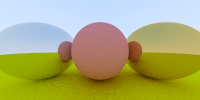
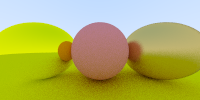
started to add multithreading

diff --git a/src/main.rs b/src/main.rs
@@ -1,10 +1,15 @@
+extern crate crossbeam;
 extern crate image;
-extern crate indicatif;
+// extern crate indicatif;
+extern crate num_cpus;
 extern crate rand;
 
-use indicatif::{ProgressBar, ProgressStyle};
+use image::png::PNGEncoder;
+use image::ColorType;
+// use indicatif::{ProgressBar, ProgressStyle};
 use rand::Rng;
 use std::cmp;
+use std::fs::File;
 use std::time::Instant;
 
 mod camera;
@@ -22,6 +27,10 @@ use object_list::ObjectList;
 use ray::Ray;
 use sphere::Sphere;
 use vector3::{unit_vector, Vector3};
+
+fn save_image(buffer: &[u8], width: u32, height: u32) -> Result<(), std::io::Error> {
+    image::save_buffer("1.png", buffer, width, height, image::RGB(8))
+}
 
 fn random_in_unit_sphere() -> Vector3 {
     let mut p: Vector3;
@@ -61,11 +70,12 @@ fn color(r: &Ray, world: &ObjectList, depth: usize) -> Vector3 {
 }
 
 fn main() {
+    let cpu_num = num_cpus::get();
     let now = Instant::now();
     let width: u32 = 200;
     let height: u32 = 100;
     let antialiasing_sensitivity: u32 = 100;
-    let camera: Camera = Camera::new(
+    let camera: &Camera = &Camera::new(
         Vector3::new(0.0, 0.0, 0.0),
         Vector3::new(-2.0, -1.0, -1.0),
         Vector3::new(4.0, 0.0, 0.0),
@@ -73,70 +83,109 @@ fn main() {
     );
 
     // TODO: check implementation performance (Box)
-    let world = ObjectList::new(vec![
+    let world = &ObjectList::new(vec![
         Box::new(Sphere::new(
             Vector3::new(0.0, 0.0, -1.0),
             0.5,
-            Material::new(MaterialType::Lambertian, Vector3::new(0.8, 0.3, 0.3)),
+            Material::new(
+                MaterialType::Lambertian,
+                Vector3::new(0.8, 0.3, 0.3),
+                0.0,
+                0.0,
+            ),
         )),
         Box::new(Sphere::new(
             Vector3::new(0.0, -100.5, -1.0),
             100.0,
-            Material::new(MaterialType::Lambertian, Vector3::new(0.8, 0.8, 0.0)),
+            Material::new(
+                MaterialType::Lambertian,
+                Vector3::new(0.8, 0.8, 0.0),
+                0.0,
+                0.0,
+            ),
         )),
         Box::new(Sphere::new(
             Vector3::new(1.0, 0.0, -1.0),
             0.5,
-            Material::new(MaterialType::Metal, Vector3::new(0.8, 0.6, 0.2)),
+            Material::new(MaterialType::Metal, Vector3::new(0.8, 0.6, 0.2), 0.3, 0.0),
         )),
         Box::new(Sphere::new(
             Vector3::new(-1.0, 0.0, -1.0),
             0.5,
-            Material::new(MaterialType::Metal, Vector3::new(0.8, 0.8, 0.8)),
+            Material::new(
+                MaterialType::Dielectric,
+                Vector3::new(1.0, 1.0, 1.0),
+                0.0,
+                1.5,
+            ),
         )),
     ]);
 
-    let mut imgbuf = image::ImageBuffer::new(width, height);
-    let progress_bar = ProgressBar::new((width * height) as u64);
-    progress_bar.set_style(
-        ProgressStyle::default_bar()
-            .template("[{elapsed_precise}] {bar:40.cyan/blue} {percent:>7}% {msg}")
-            .progress_chars("##-"),
-    );
+    // let mut imgbuf = image::ImageBuffer::new(width, height);
+    // let progress_bar = ProgressBar::new((width * height) as u64);
+    // progress_bar.set_style(
+    //     ProgressStyle::default_bar()
+    //         .template("[{elapsed_precise}] {bar:40.cyan/blue} {percent:>7}% {msg}")
+    //         .progress_chars("##-"),
+    // );
 
-    for (x, y, pixel) in imgbuf.enumerate_pixels_mut() {
-        // x is [0..width]
-        // y is [0..height]
-        // red goes from left to right
-        // green goes from bottom to top
-        let mut col: Vector3 = Vector3::new(0.0, 0.0, 0.0);
-        let inverted_y = height - y;
-        let mut rng = rand::thread_rng();
+    let thread_rows: u32 = height / cpu_num as u32 + 1;
+    let mut buffer = vec![0; (width * height * 3) as usize];
+    let rows: Vec<&mut [u8]> = buffer
+        .chunks_mut((thread_rows * width * 3) as usize)
+        .collect();
+    //TODO: correct division between rows of pixels
+    crossbeam::scope(|spawner| {
+        for (i, row) in rows.into_iter().enumerate() {
+            spawner.spawn(move |_| {
+                for y in 0..height {
+                    for x in 0..width {
+                        // x is [0..width]
+                        // y is [0..height]
+                        // red goes from left to right
+                        // green goes from bottom to top
+                        let mut col: Vector3 = Vector3::new(0.0, 0.0, 0.0);
+                        let inverted_y = height - y;
+                        let mut rng = rand::thread_rng();
 
-        // this shoots rays around the object
-        // edge using a random offset
-        // and computes a color average
-        for _ in 0..antialiasing_sensitivity {
-            let u = (x as f32 + rng.gen::<f32>()) / width as f32;
-            let v = (inverted_y as f32 + rng.gen::<f32>()) / height as f32;
-            let r = camera.get_ray(u, v);
-            col += color(&r, &world, 0);
+                        // this shoots rays around the object
+                        // edge using a random offset
+                        // and computes a color average
+                        for _ in 0..antialiasing_sensitivity {
+                            let u = (x as f32 + rng.gen::<f32>()) / width as f32;
+                            let v = (inverted_y as f32 + rng.gen::<f32>()) / height as f32;
+                            let r = camera.get_ray(u, v);
+                            col += color(&r, &world, 0);
+                        }
+                        col /= antialiasing_sensitivity as f32;
+                        // remove the gamma of 2 from the color (raise to power of 1/2)
+                        col = Vector3::new(col[0].sqrt(), col[1].sqrt(), col[2].sqrt());
+                        let ir = (255.99 * &col[0]) as u8;
+                        let ig = (255.99 * &col[1]) as u8;
+                        let ib = (255.99 * &col[2]) as u8;
+                        // save buffer values
+                        row[(3 * (y * width + x)) as usize] = ir;
+                        row[(3 * (y * width + x) + 1) as usize] = ig;
+                        row[(3 * (y * width + x) + 2) as usize] = ib;
+                        // progress_bar.inc(1);
+                        print!("\r{}s", now.elapsed().as_secs());
+                    }
+                }
+            });
         }
-        col /= antialiasing_sensitivity as f32;
-        // remove the gamma of 2 from the color (raise to power of 1/2)
-        col = Vector3::new(col[0].sqrt(), col[1].sqrt(), col[2].sqrt());
-        let ir = (255.99 * &col[0]) as u8;
-        let ig = (255.99 * &col[1]) as u8;
-        let ib = (255.99 * &col[2]) as u8;
-        *pixel = image::Rgb([ir, ig, ib]);
-        progress_bar.inc(1);
-    }
+    })
+    .unwrap();
 
-    progress_bar.finish();
+    match save_image(&buffer, width, height) {
+        Ok(()) => println!("OK"),
+        Err(err) => println!("{}", err),
+    };
+
+    // progress_bar.finish();
     println!(
         "Finished in {}s {}ms",
         now.elapsed().as_secs(),
         (now.elapsed().subsec_nanos() / 1_000_000) as u64
     );
-    imgbuf.save("1.png").unwrap();
+    // imgbuf.save("1.png").unwrap();
 }

diff --git a/src/material.rs b/src/material.rs
@@ -7,19 +7,42 @@ fn reflect(v: Vector3, n: Vector3) -> Vector3 {
   v - 2.0 * dot(v, n) * n
 }
 
+fn refract(v: Vector3, n: Vector3, ni_over_nt: f32) -> Option<Vector3> {
+  let uv: Vector3 = unit_vector(v);
+  let dt: f32 = dot(uv, n);
+  let discriminant: f32 = 1.0 - ni_over_nt * ni_over_nt * (1.0 - dt * dt);
+  if discriminant > 0.0 {
+    Some(ni_over_nt * (uv - n * dt) - n * discriminant.sqrt())
+  } else {
+    None
+  }
+}
+
 pub enum MaterialType {
   Lambertian,
   Metal,
+  Dielectric,
 }
 
 pub struct Material {
   kind: MaterialType,
   albedo: Vector3,
+  fuzz: f32,
+  ref_idx: f32,
 }
 
 impl Material {
-  pub fn new(kind: MaterialType, albedo: Vector3) -> Self {
-    Material { kind, albedo }
+  pub fn new(kind: MaterialType, albedo: Vector3, f: f32, ref_idx: f32) -> Self {
+    let mut fuzz = f;
+    if f >= 1.0 {
+      fuzz = 1.0;
+    }
+    Material {
+      kind,
+      albedo,
+      fuzz,
+      ref_idx,
+    }
   }
 }
 
@@ -36,11 +59,38 @@ impl Scatterable for Material {
       }
       MaterialType::Metal => {
         let reflected = reflect(unit_vector(r_in.direction()), rec.normal);
-        let scattered = Ray::new(rec.p, reflected);
+        let scattered = Ray::new(rec.p, reflected + self.fuzz * random_in_unit_sphere());
         if dot(scattered.direction(), rec.normal) > 0.0 {
           Some((self.albedo, scattered))
         } else {
           None
+        }
+      }
+      MaterialType::Dielectric => {
+        let outward_normal: Vector3;
+        let reflected: Vector3 = reflect(r_in.direction(), rec.normal);
+        let ni_over_nt: f32;
+        // kill the blue color which is a color bug
+        let attenuation = Vector3::new(1.0, 1.0, 0.0);
+        let scattered: Ray;
+
+        if dot(r_in.direction(), rec.normal) > 0.0 {
+          outward_normal = -rec.normal;
+          ni_over_nt = self.ref_idx;
+        } else {
+          outward_normal = rec.normal;
+          ni_over_nt = 1.0 / self.ref_idx;
+        }
+
+        match refract(r_in.direction(), outward_normal, ni_over_nt) {
+          Some(refracted) => {
+            scattered = Ray::new(rec.p, reflected);
+            Some((attenuation, scattered))
+          }
+          None => {
+            scattered = Ray::new(rec.p, reflected);
+            None
+          }
         }
       }
     }

diff --git a/src/object_list.rs b/src/object_list.rs
@@ -4,11 +4,15 @@ use super::ray::Ray;
 // use super::sphere::{Plane, Sphere};
 
 pub struct ObjectList {
-  pub list: Vec<Box<dyn Hittable>>,
+  // this needs to be dynamic to allow for different
+  // structs that implement the Hittable trait
+  // otherwise it would allow for only one kind
+  // e.g. Sphere
+  pub list: Vec<Box<dyn Hittable + Sync>>,
 }
 
 impl ObjectList {
-  pub fn new(list: Vec<Box<dyn Hittable>>) -> Self {
+  pub fn new(list: Vec<Box<dyn Hittable + Sync>>) -> Self {
     ObjectList { list }
   }
 }
